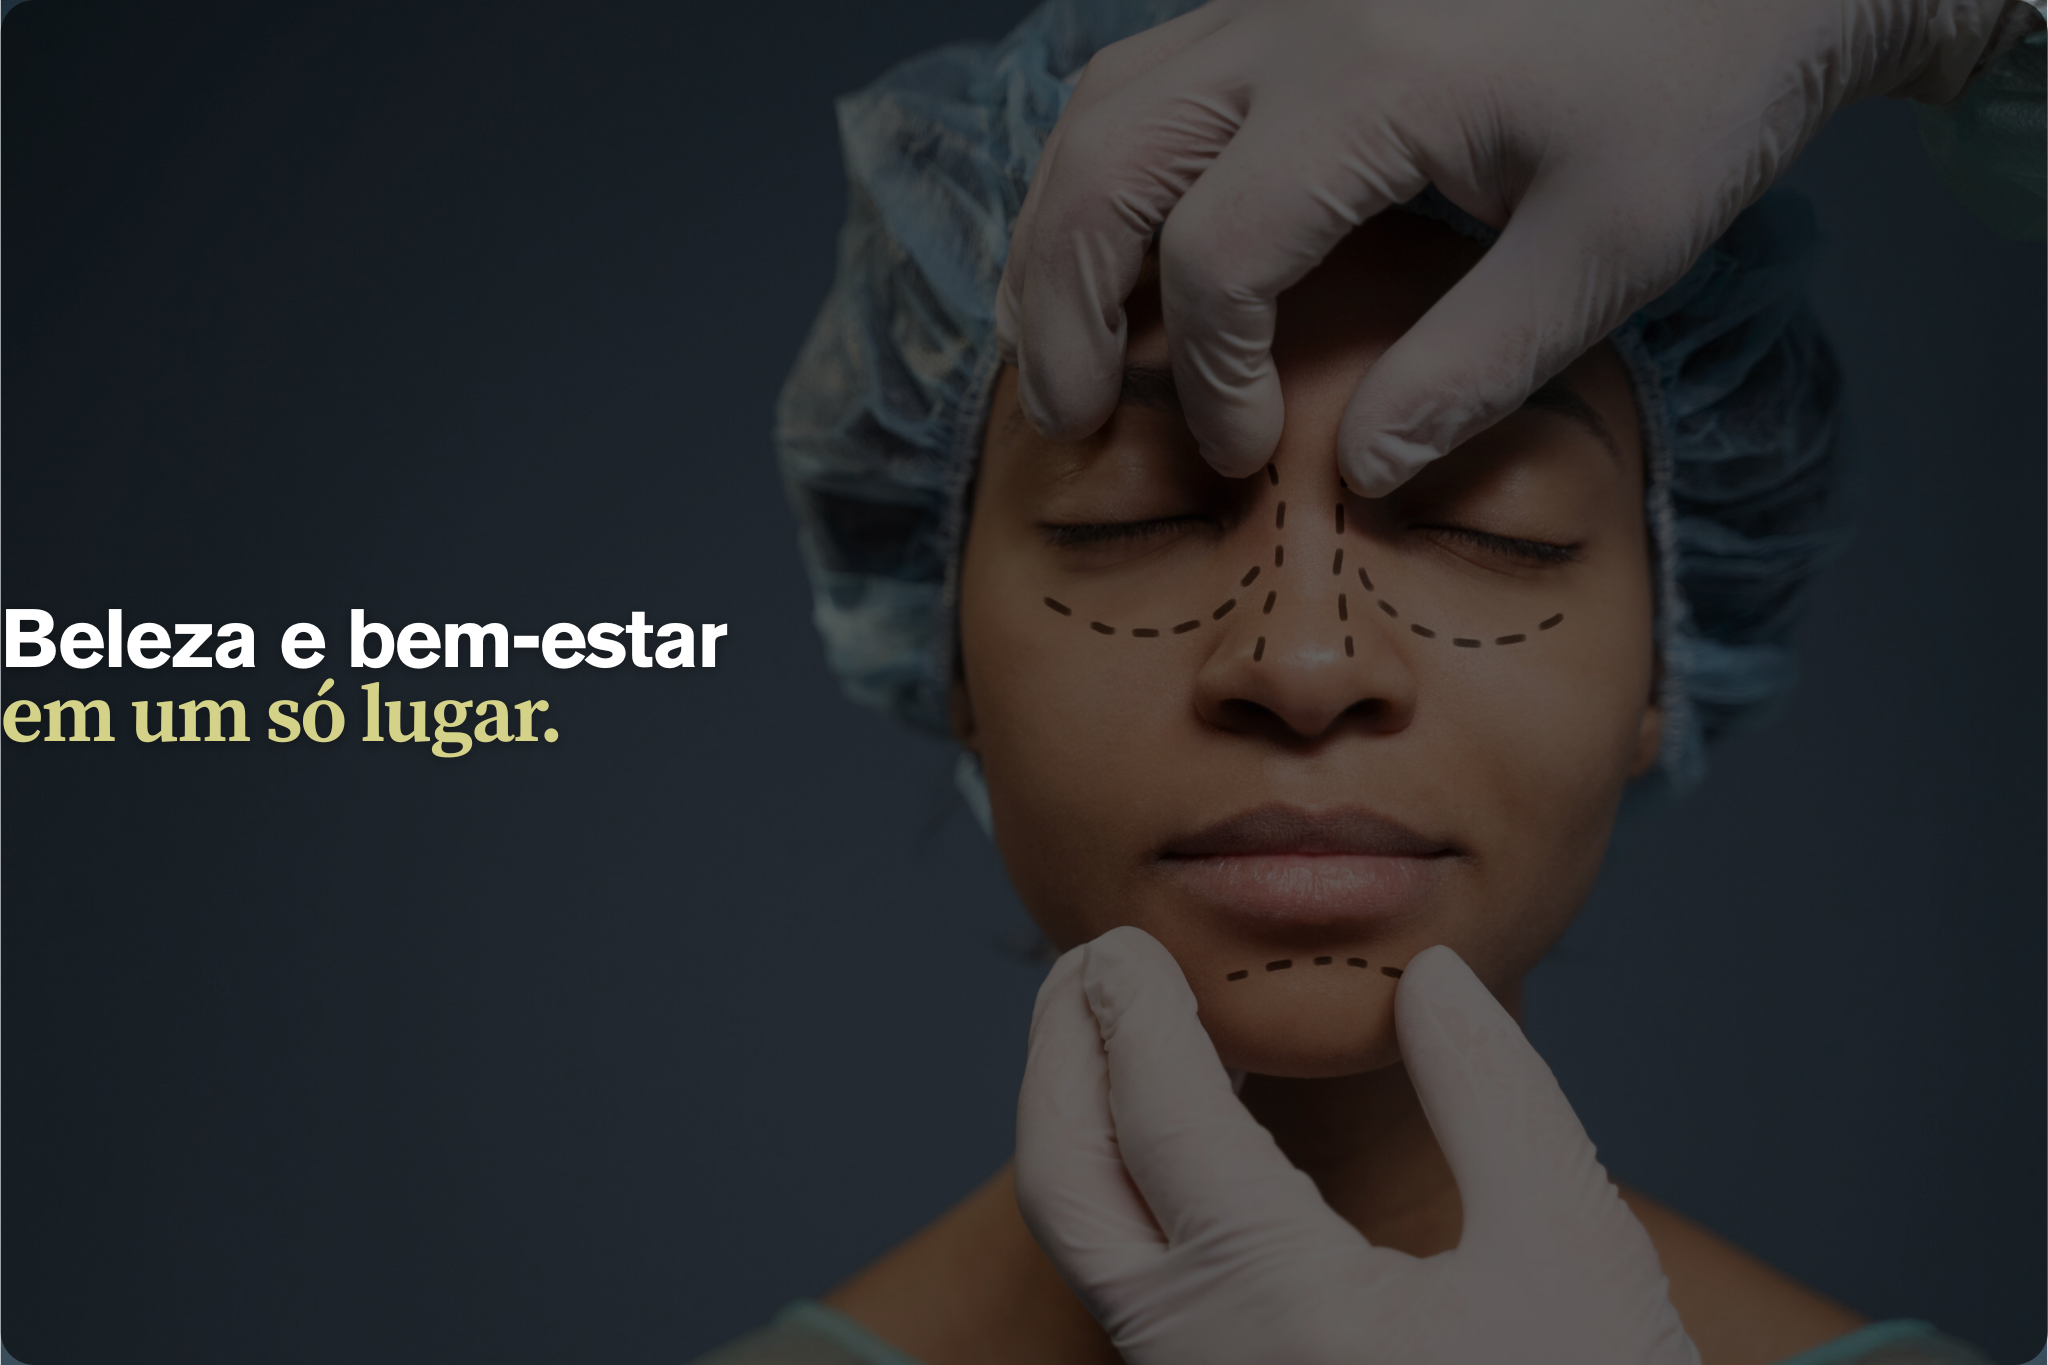
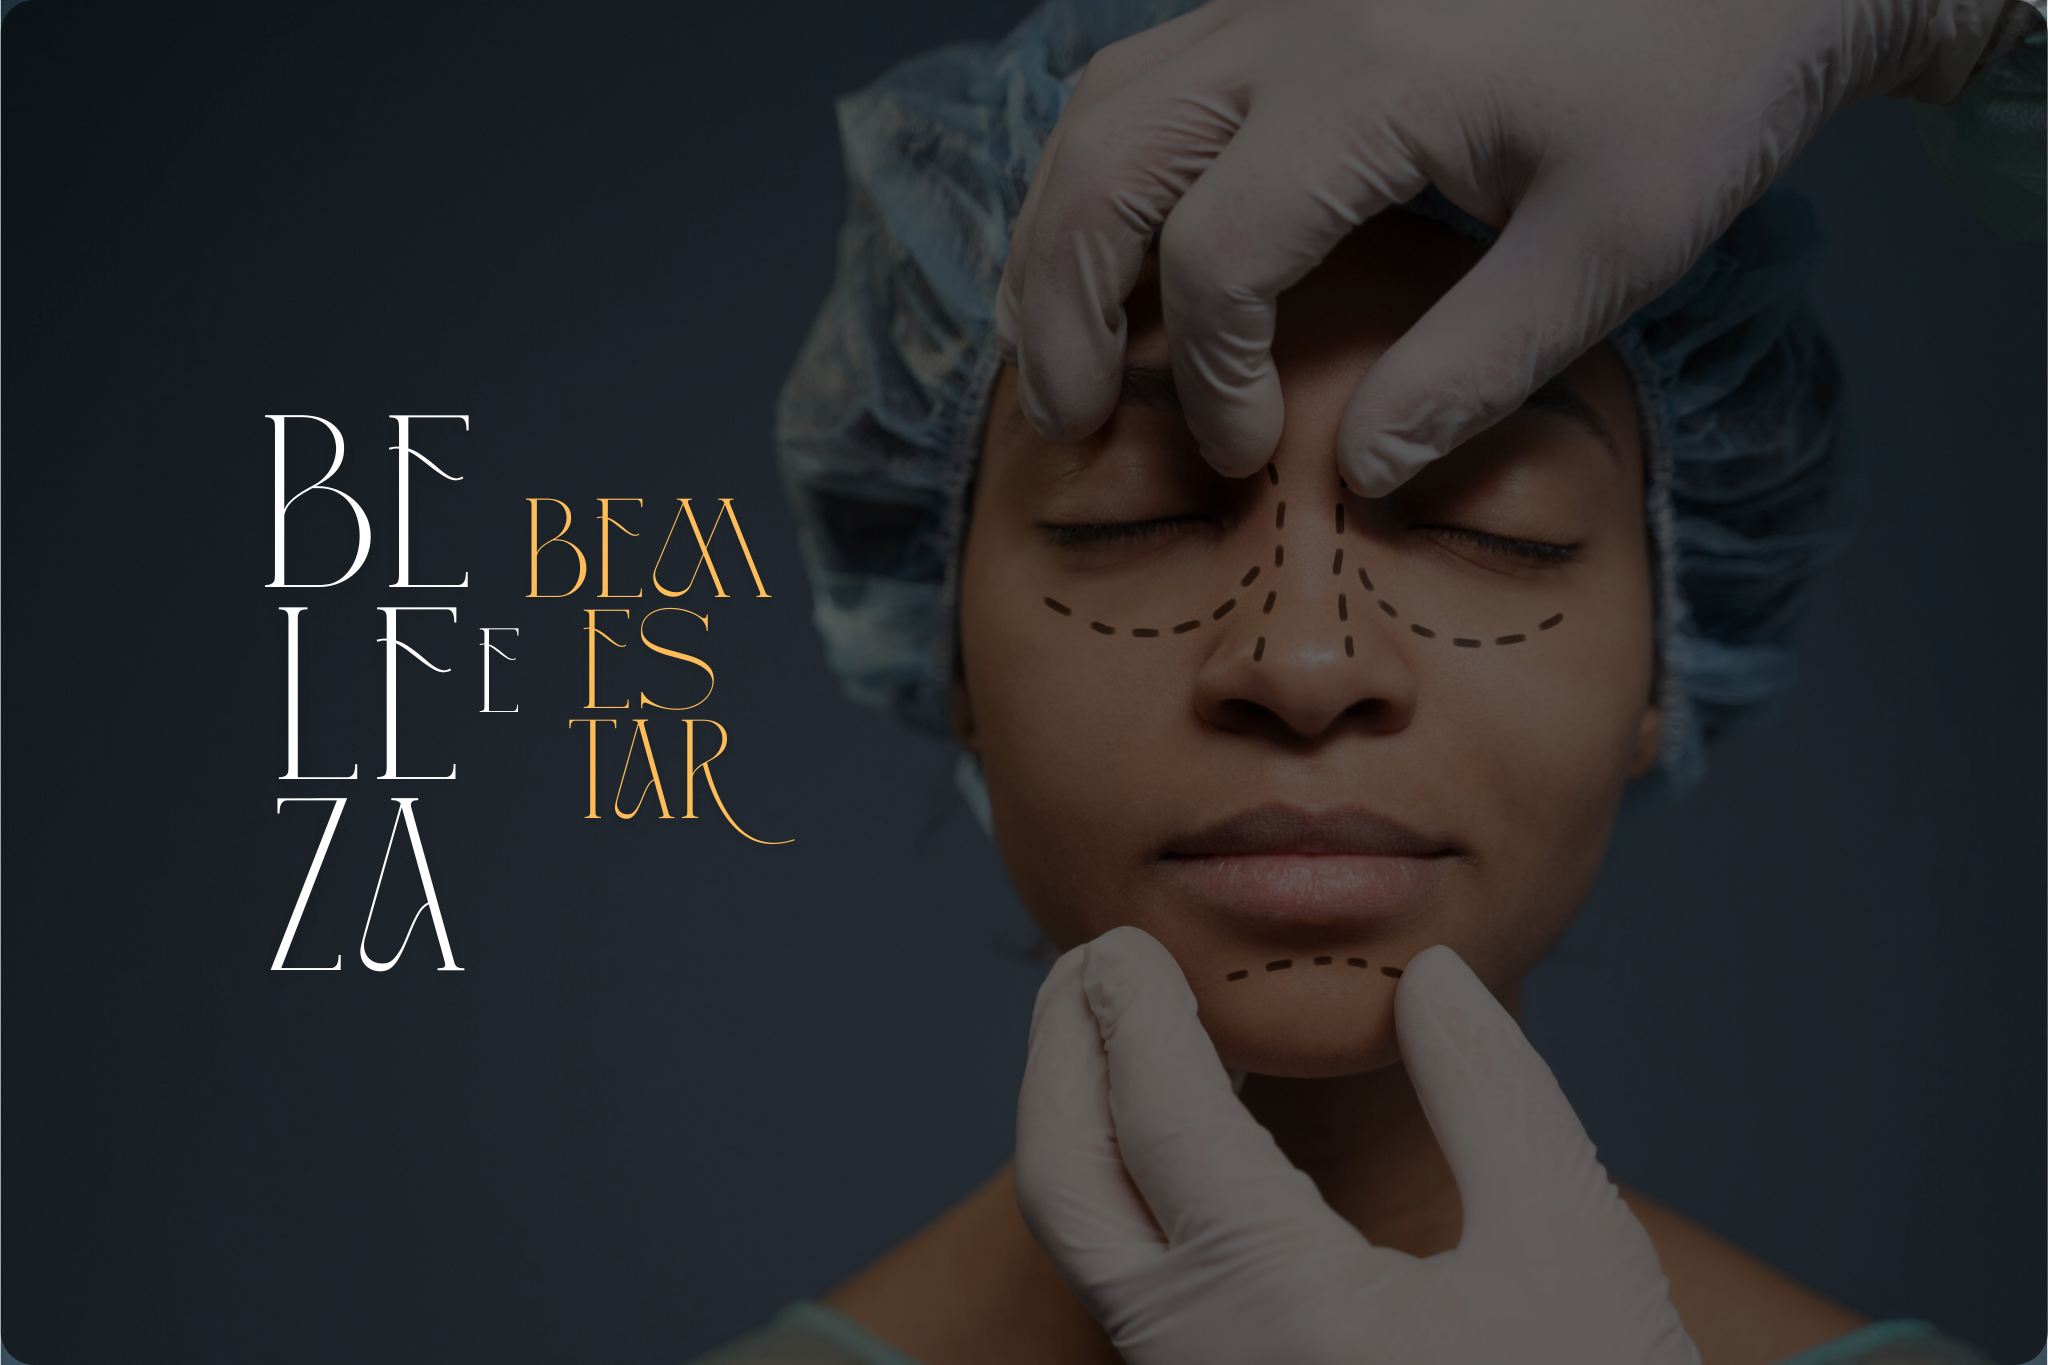
att carrosel principal

Changed region(s): [[0.0, 0.3077, 0.375, 0.7077]]

diff --git a/index.htm b/index.htm
@@ -15,7 +15,7 @@
 
   <nav class="navbar navbar-expand-lg bg-body-tertiary fixed-top py-4">
     <div class="container-fluid">
-      <a href="index.htm"><img src="imagens/logo_whatapp.png" alt="" style="width: 100px; cursor: pointer;"></a>
+      <a href="index.htm"><img src="imagens/imglogo.png" alt="" style="width: 100px; cursor: pointer;"></a>
       <button class="navbar-toggler" type="button" data-bs-toggle="collapse" data-bs-target="#navbarSupportedContent"
         aria-controls="navbarSupportedContent" aria-expanded="false" aria-label="Toggle navigation">
         <span class="navbar-toggler-icon"></span>
@@ -77,16 +77,16 @@
   <div id="carouselExampleAutoplaying" class="carousel slide" data-bs-ride="carousel">
     <div class="carousel-inner">
       <div class="carousel-item active">
-        <img src="imagens/Estetica-saude-e-bem-estar.png" class="d-block w-100" alt="...">
+        <img src="imagens/Estetica-saude-e-bem-estar.jpg" class="d-block w-100" alt="...">
       </div>
       <div class="carousel-item">
         <img src="imagens/Estetica-saude-e-beleza.png" class="d-block w-100" alt="...">
       </div>
       <div class="carousel-item">
-        <img src="imagens/Post-de-blog-estetica-facial.jpg" class="d-block w-100" alt="...">
+        <img src="imagens/Post-de-blog-estetica-facial.png" class="d-block w-100" alt="...">
       </div>
       <div class="carousel-item">
-        <img src="imagens/beleza-e-estetica.jpg" class="d-block w-100" alt="...">
+        <img src="imagens/beleza-e-estetica.png" class="d-block w-100" alt="...">
       </div>
     </div>
   </div>
